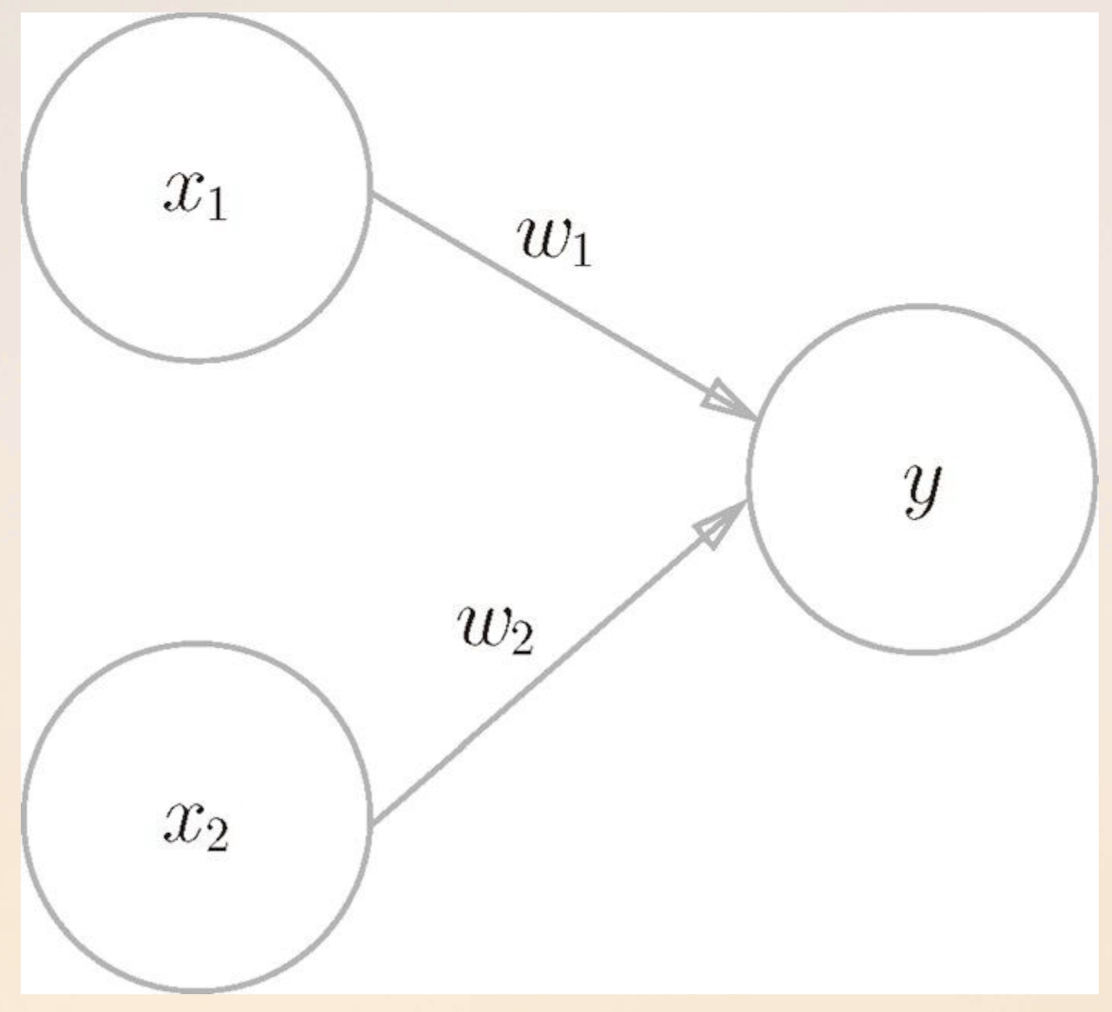
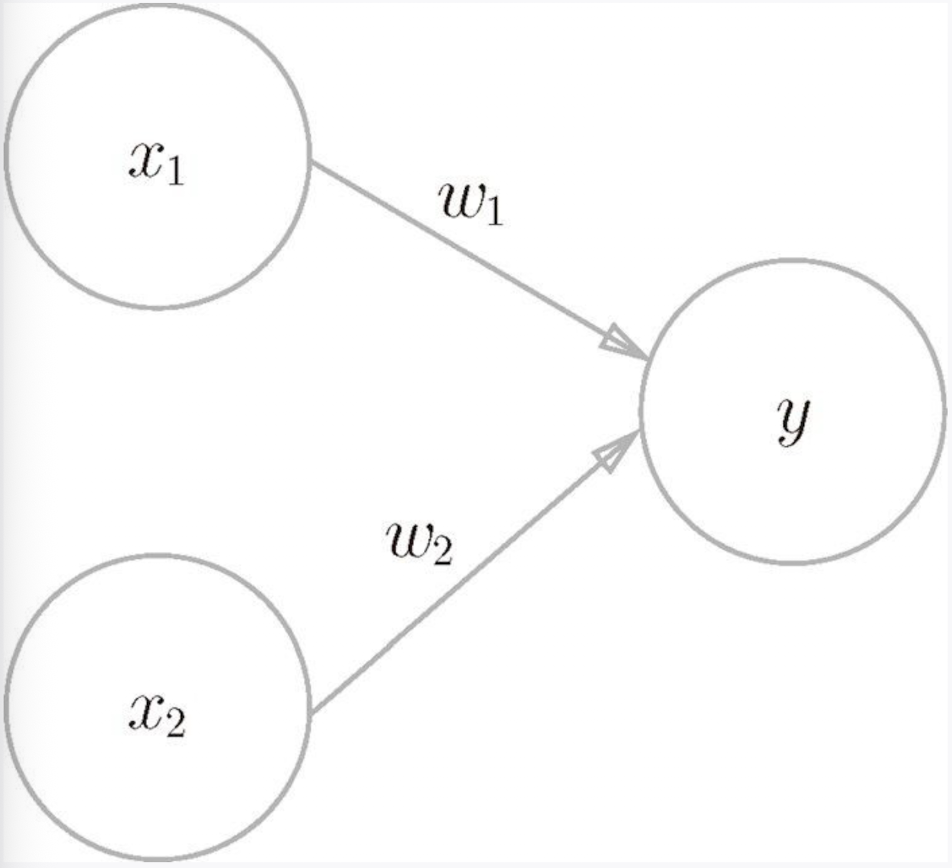
chore: update dl.md

diff --git a/AI/deeplearning.md b/AI/deeplearning.md
@@ -141,26 +141,108 @@ def OR(x1, x2):
 | 1  | 1  | 0  |
 
 #### 原因分析
+1. 从图行的角度来分析原因：
 
+<div align="center">
+<img src="../images/AI/xianxing.png" alt="线性" width="50%">
+</div>
+
+上图为或门，在坐标中直线很好的将或门的值(○和△)分开。即直线的左侧值为0，直线的右侧值为1.
+
+<div align="center">
+<img src="../images/AI/feixianxing.png" alt="feixianxing" width="50%">
+</div>
+
+而上图为异或门，在坐标轴上，无法用一条直线将○和△分开。所以，可以得出无法用线性方程表示异或门。
+
+
+2. 从数据公式的角度来分析原因：
 从将真值带入感知机线性公式：
+
 $$ w1*0 + w2*0 = 0 $$ 
 $$ w1*1 + w2*0 = 1 $$
 $$ w1*0 + w2*1 = 1 $$
 $$ w1*1 + w2*1 = 0 $$
+
 得:
+
 $$ w1 =1, w2 =1 且 w1+w2=0 不存在 $$
  
 
-从图形中看出无法用线性表示非线性的现象:
+#### 多层感知机
+> 单层感知机有局限，那么多层感知机是否可以表达异或门呢？答案是肯定的。
 
-#### 多层感知机解决该问题
+我们可以通过组合与门、与非门、或门来表示异或门。以下分别为与门、与非门、或门的符号。
 
-用多层感知机表示非线性：
-与非门 + 或门 + 与门
-代码实现
+<div align="center">
+<img src="../images/AI/sanmen.png" alt="sanmen" width="50%">
+</div>
+
+用三个电门组成异或门，如下图：
+
+<div align="center">
+<img src="../images/AI/yihuomen.png" alt="yihuomen" width="50%">
+</div>
+
+其真值表可以表示如下，因为除了输入(x1,x2)和输出y之外，还多了一层(s1,s2)，所以真值表也将表示出s1,s2的值。
+
+| x1  | x2  | s1  | s2  | y   |
+| --- | --- | --- | --- | --- |
+| 0   | 0   | 1   | 0   | 0   |
+| 1   | 0   | 1   | 1   | 1   |
+| 0   | 1   | 1   | 1   | 1   |
+| 1   | 1   | 0   | 1   | 0   |
+
+相当于通过三个电门的组合，实现了线性无法表示的分割，如图示：
+
+<div align="center">
+<img src="../images/AI/yihuomenshixian.png" alt="yihuomenshixian" width="50%">
+</div>
+
+
+
+
+异或门的代码实现
 ```python
-# 异或门代码实现
+# 与门
+def AND(x1, x2):
+    X = np.array([x1, x2])
+    W = np.array([0.5, 0.5])
+    b = - 0.8
+    tmp = np.sum(W*X) + b 
+    if tmp > 0:
+        return 1
+    else:
+        return 0
 
+# 与非门
+def NAND(x1, x2):
+    X = np.array([x1, x2])
+    W = np.array([-0.5, -0.5])
+    b = 0.8
+    tmp = np.sum(W*X) + b 
+    if tmp > 0:
+        return 1
+    else:
+        return 0
+
+# 或门
+def OR(x1, x2):
+    X = np.array([x1, x2])
+    W = np.array([0.5, 0.5])
+    b = -0.3
+    tmp = np.sum(W*X) + b 
+    if tmp > 0:
+        return 1
+    else:
+        return 0
+
+# 异或门
+def XOR(x1, x2):
+    s1 = NAND(x1, x2)
+    s2 = OR(x1, x2)
+    y = AND(s1, s2)
+    return y
 ```
 
 #### 启发与思考
@@ -182,13 +264,21 @@ $$ w1 =1, w2 =1 且 w1+w2=0 不存在 $$
 
 神经网络有输入层(如图最左边一层)，中间层(如图中间若干层, 因为看不见，所以也称隐藏层)，输出层(如图最右边一层)
 
-<img src="../images/AI/neural_network.png" alt="neural network" style="display:block; margin:0 auto; width:50%; clear: both;">
+<div align="center">
+<img src="../images/AI/neural_network.png" alt="neuralNetwork" width="50%">
+</div>
 
-神经网络的形状与感知机类似。神经元的连接方式与感知机并没有任何差异。那么神经网络中，信号是如何传递的呢？
+神经网络的形状与感知机类似。神经元的连接方式与感知机并没有任何差异。那么神经网络与感知机的区别在哪里呢？
 
 
 ### 从感知机到神经网络的过度
 #### 再看感知机, 引出激活函数的概念
+
+<div align="center">
+<img src="../images/AI/ganzhiji.png" alt="ganzhiji" width="50%">
+</div>
+
+
 先来回顾下感知机, 感知机接收两个输入x1与x2, 输出f(x)，也即y。公式如下：
 
 $$
@@ -209,32 +299,22 @@ h(a) =
 \end{cases}
 $$
 
-输入信号的总号会被函数h(a)转换为输出信号。h(a)这样的函数被称为**激活函数**。函数h(a)是一个分段函数，也称为阶跃函数。
-##### 启发与思考 
-感知机的输入信号总和 确实被一个函数作用后，再输出y了。
+输入信号的总和a会被非线性函数h()转换为输出信号y。h()这样的函数被称为**激活函数**。
+
 #### 激活函数的定义与作用
-**激活函数**: 将输入信号的总和作为一个整体, 通过运算给出输出的函数。
+**激活函数**: 将输入信号的总和作为一个整体, 通过非线性运算再给出输出的函数。
+**作用**: 将输入信号的总和作为一个整体，通过非线性的运算，判断该节点是否被激活。
 
-**定义与作用**：
-激活函数的作用在于决定如何来激活 输入信号的总和，即 输入信号的总和作为一个整体，再被带入到激活函数中，去输出新的值。即最重要的是 怎么激活(运算)
-
-输入信号(x1, x2)与权重(w1,w2)和偏置b进行了加权总和后，记为a。h()函数将a转换成为输出y。**h()函数中的运算逻辑是重点**。下图中展示了激活函数的作用过程。
+输入信号(x1, x2)与权重(w1,w2)和偏置b进行了加权总和后，记为a。h()非线性函数将a转换成输出y。**h()函数中的运算逻辑是重点**。下图中展示了激活函数的作用过程。
 
 <img src="../images/AI/jihuohanshu.png" alt="激活函数的作用" style="display:block; margin:0 auto; width:50%; clear:both;">
 
 ##### 启发与思考
-可见单层感知机，也有激活函数的概念。
+单层感知机，也有激活函数。
 
-#### 激活函数是连接感知机和神经网络的桥梁
 
-> “感知机”没有严格统一它所指的算法。一般而言：
-> 
-> “朴素感知机”是指单层网络，指的是激活函数使用了**阶跃函数** 的模型。
-> 
-> "多层感知机“是指神经网络，指的是激活函数使用了**sigmoid函数** 等平滑的激活函数的多层网络。
-##### 启发与思考
-可见神经网络的两个明显特点: 多层、使用了平滑的激活函数。
-### 激活函数：
+### 常用激活函数(阶跃函数、sigmoid函数)
+
 ##### 阶跃函数
 
 $$
@@ -244,22 +324,27 @@ h(a) =
 0, & a\le 0
 \end{cases}
 $$
-
-<img src="../images/AI/jieyuehanshu.png" alt="阶跃函数图形" style="display:block; margin:0 auto; width:50%; clear:both;">
-
-阶跃函数代码实现：
-
+用python画出阶跃函数的图：
 ```python
-def step_function(x): # 参数x只能接受实数
-    if x>0:
-        return 1
-    else:
-        return 0
+import numpy as np
+import matplotlib.pylab as plt
 
-def stip_function(x): # 参数x支持numpy数组
+def step_function(x):
     y = x > 0
     return y.astype(np.int_)
+
+x = np.arange(-5.0, 5.0, 0.1)
+y = step_function(x)
+plt.plot(x, y)
+plt.ylim(-0.1, 1.1) # 指定y轴范围
+plt.show()
+
 ```
+从图行可以看出，当输入小于0时，输出为0; 当输入超过0时，输出为1。属于瞬间阶跃了。感知机用的激活函数就是阶跃函数。
+
+<div align="center">
+<img src="../images/AI/jieyuehanshu.png" alt="jieyuehanshu" width="50%">
+</div>
 
 
 
@@ -269,10 +354,41 @@ $$
 \sigma(x) = \frac{1}{1 + e^{-x}}
 $$
 
+用python来实现sigmoid函数
+```python
+import numpy as np
+def sigmoid(x):
+    return 1 / (1 + np.exp(-x))
+
+x = np.array(-5.0, 5.0, 01)
+y = sigmoid(x)
+plt.plot(x, y)
+plt.ylim(-0.1, 1.1)
+plt.show()
+
+```
+输出如下光滑的图形。
+<div align="center">
+<img src="../images/AI/sigmoidtuxing.png" alt="sigmoidtuxing" width="50%">
+</div>
+
+阶跃函数与sigmoid函数的对比：
+相同点：
+不同点：
 
 1. 激活函数必须是非线性函数。
 2. 阶跃函数、sigmoid函数都为非线性函数。阶跃函数像竹筒敲石头，只做是否传送水(0或1)两个动作；sigmoid函数像水车一样，根据流过来的水量响应地调整传出去的数量。
 
+#### 激活函数是理解感知机和神经网络的桥梁
+
+> “感知机”没有严格统一它所指的算法。一般而言：
+> 
+> “朴素感知机”是指单层网络，指的是激活函数使用了**阶跃函数** 的模型。
+> 
+> "多层感知机“是指神经网络，指的是激活函数使用了**sigmoid函数** 等平滑的激活函数的多层网络。 -- 这里突然引出”平滑“函数的概念很突兀，没有铺垫没有原因的，突然提”平滑“函数。
+
+##### 启发与思考
+可见神经网络的两个明显特点: 多层、使用了平滑(非线性)的激活函数。
 
 
 

diff --git a/diary/diary.md b/diary/diary.md
@@ -10,10 +10,11 @@
 #### 1003: 掌握大模型发展现状
 ### 20261127
 
+- [x] 利用Python进行数据分析 -- 第4章 阅读与实践 90%
 - [ ] 学会规划预期完成任务。
   - [ ] 先规划，
   - [ ] 再执行。
-  - [ ] 反馈反思后调整对自己执行与预期的差距。-- 在公司上班期间的学习过程中，有较大杂音干扰，无法做笔记，只能看学习材料写代码理解概念。应该不影响消化，但是不能及时做笔记，无法达到更好一层的吸收。在公司学习的时间远大于在家可以做笔记的时间。所以笔记远落后于学习阅读的进度。解决方案：手机端看是否可以写github文档。
+  - [ ] 反馈反思后调整对自己执行与预期的差距。-- 在公司上班期间的学习过程中，有较大杂音干扰，无法做笔记，只能看学习材料写代码理解概念。应该不影响消化，但是不能及时做笔记，无法达到更好一层的吸收。在公司学习的时间远大于在家可以做笔记的时间。所以笔记远落后于学习阅读的进度。解决方案：手机端看是否可以写github文档。-- 手机端APP因为地域的问题无法打开。
 - [ ] 深度学习 -A 1001 - 复习2-3章后，感觉比较扎实，开始往前推进, 笔记稍微落后。
   - [ ] 阅读 -- 结束第3章
   - [ ] 代码实践 -- 第2章 异或门
@@ -21,7 +22,7 @@
 - [ ] 利用Python进行数据分析 -A 1001 - 开始学习第4章 目前来看消化的不错, 笔记稍微落后。 -- 看上去深入学习 只需要掌握numpy的知识就可以继续。这本书优先学习numpy后，可以先暂停。
   - [x] 阅读 -- 4.1结束
   - [x] 代码实践 --4.1结束
-  - [ ] 笔记 -- 未开始
+  - [ ] 笔记 -- 未开始 -- 优先学习 深度学习课程.
       
 
 ### 20261126
